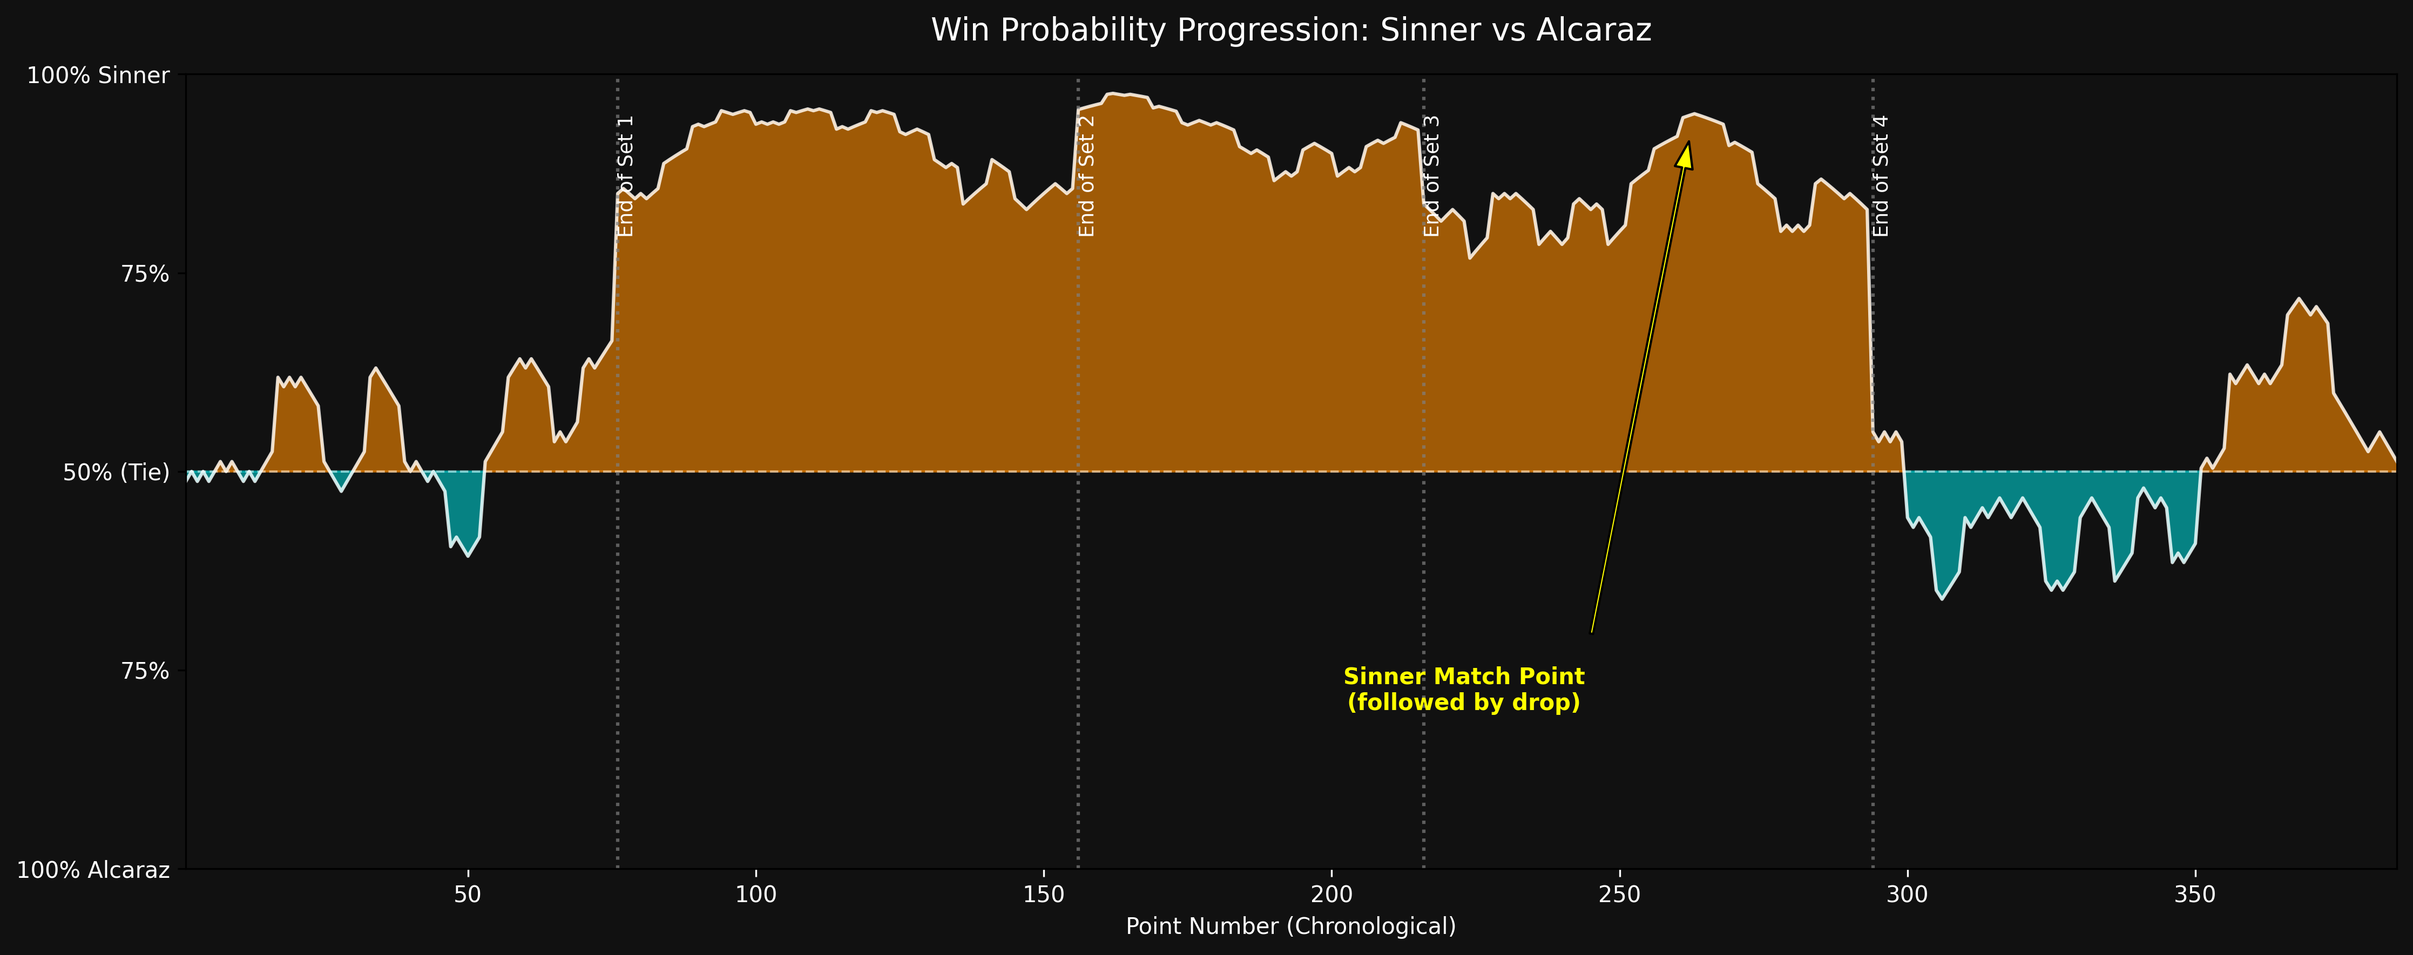
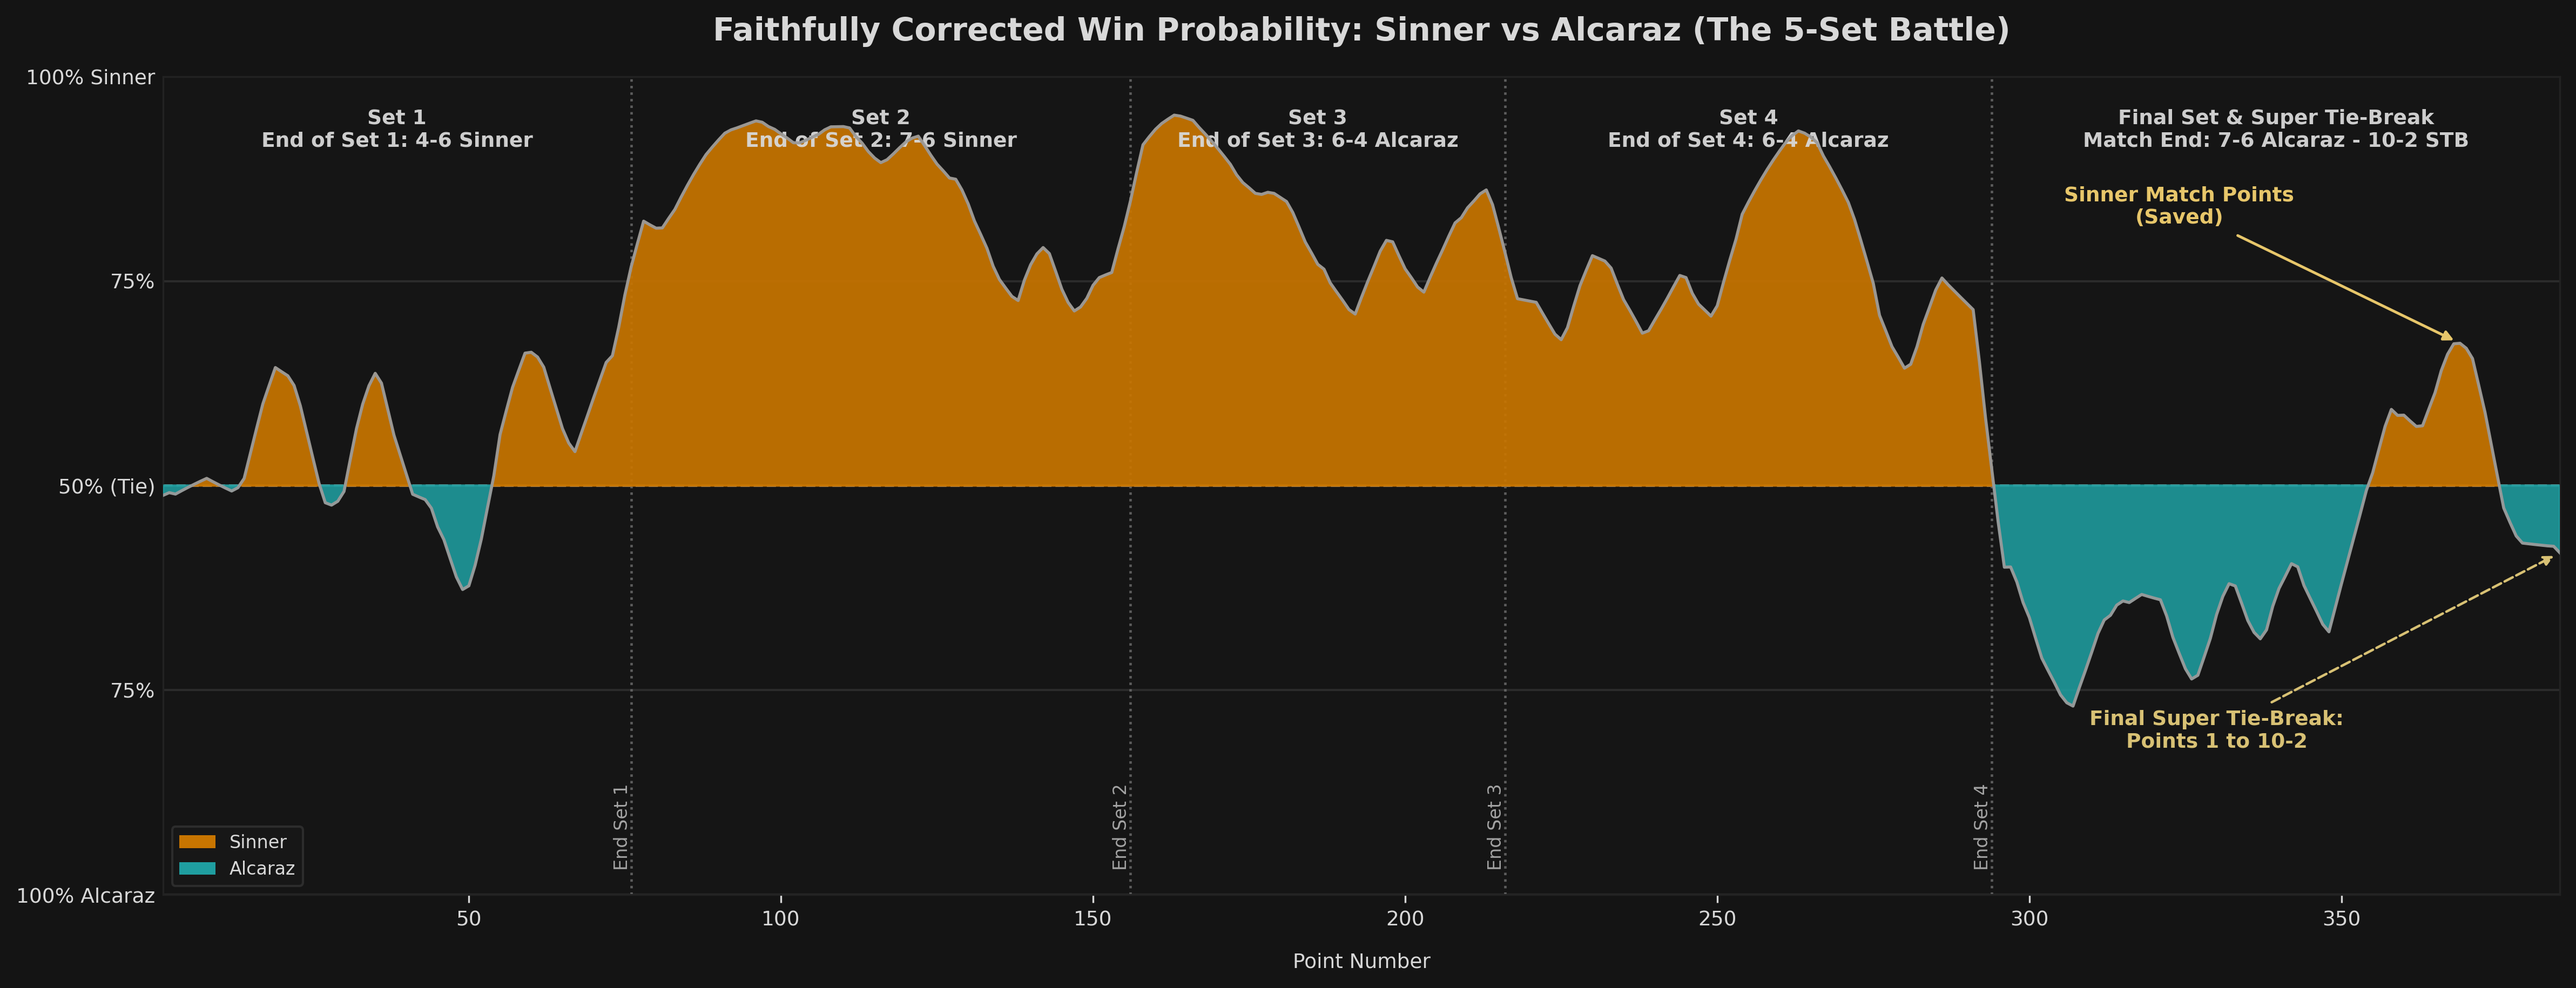
New version of the line chart

diff --git a/src/charts/mirror_line.py b/src/charts/mirror_line.py
@@ -2,89 +2,289 @@ import pandas as pd
 import numpy as np
 import matplotlib.pyplot as plt
 from pathlib import Path
+from matplotlib.patches import Patch
 
 # ==========================================
 # 1. ROBUST DATA LOADING
 # ==========================================
-# Get the absolute path of the current script (mirror_line_chart.py)
-# .parent goes to 'charts', .parent.parent goes to 'src', .parent.parent.parent goes to 'repo root'
 repo_root = Path(__file__).resolve().parent.parent.parent
 data_path = repo_root / 'data' / 'processed' / 'sinner_alcaraz_2025.parquet'
 
 print(f"Loading data from: {data_path}")
 df = pd.read_parquet(data_path)
 
-# Sort by point progression
 df = df.sort_values(by='Pt').reset_index(drop=True)
 
 # ==========================================
-# 2. CALCULATE WIN PROBABILITY (Momentum)
+# 2. CALCULATE MATCH-AWARE WIN PROBABILITY
 # ==========================================
 momentum = []
 current_momentum = 0
 
-for index, row in df.iterrows():
+for _, row in df.iterrows():
     set_diff = row['Set1'] - row['Set2']
     gm_diff = row['Gm1'] - row['Gm2']
-    
+
+    # Recent momentum matters more than very old momentum
+    current_momentum *= 0.96
+
     if row['PtWinner'] == 1:
-        current_momentum += 1.5
+        current_momentum += 1.8
     elif row['PtWinner'] == 2:
-        current_momentum -= 1.5
-        
-    total_score = (set_diff * 40) + (gm_diff * 10) + current_momentum
+        current_momentum -= 1.8
+
+    # Match-aware but not overly rigid:
+    # set_diff keeps Sinner favored after winning early sets,
+    # gm_diff and point momentum let the chart react during each set.
+    total_score = (
+        set_diff * 28
+        + gm_diff * 10
+        + current_momentum
+    )
+
     momentum.append(total_score)
 
 def sigmoid(x):
-    return 100 / (1 + np.exp(-x / 30))
+    return 100 / (1 + np.exp(-x / 24))
 
 df['Win_Prob'] = [sigmoid(m) for m in momentum]
 
+df['Win_Prob_Smooth'] = (
+    df['Win_Prob']
+    .rolling(window=5, min_periods=1, center=True)
+    .mean()
+)
+
 # Find ends of sets
-end_of_sets = df[df['Set1'] + df['Set2'] > df['Set1'].shift(1).fillna(0) + df['Set2'].shift(1).fillna(0)].index.tolist()
+df['CompletedSets'] = df['Set1'] + df['Set2']
+end_of_sets = df[
+    df['CompletedSets'] > df['CompletedSets'].shift(1).fillna(0)
+].index.tolist()
 
 # ==========================================
 # 3. PLOT MIRROR LINE CHART
 # ==========================================
-fig, ax = plt.subplots(figsize=(15, 6), facecolor='#111111')
-ax.set_facecolor('#111111')
+plt.style.use('dark_background')
 
-x = df['Pt']
-y = df['Win_Prob']
+fig, ax = plt.subplots(figsize=(16, 6.2), facecolor='#141414')
+ax.set_facecolor('#151515')
 
-ax.axhline(50, color='white', linewidth=1, linestyle='--', alpha=0.5)
-ax.plot(x, y, color='white', linewidth=1.5, alpha=0.8)
+x = df['Pt'].to_numpy()
+y = df['Win_Prob_Smooth'].to_numpy()
+baseline = 50
 
-# Fill areas
-ax.fill_between(x, y, 50, where=(y > 50), color='#FF8C00', alpha=0.6, interpolate=True) # Sinner
-ax.fill_between(x, y, 50, where=(y < 50), color='#00CED1', alpha=0.6, interpolate=True) # Alcaraz
+sinner_color = '#C87500'
+alcaraz_color = '#1F9EA0'
+line_color = '#9A9A9A'
+grid_color = '#333333'
+text_color = '#D8D8D8'
 
-# Set separators
+# Horizontal grid/reference lines
+for level in [0, 25, 50, 75, 100]:
+    ax.axhline(level, color=grid_color, linewidth=1, alpha=0.75, zorder=0)
+
+ax.axhline(
+    baseline,
+    color='#CFCFCF',
+    linewidth=1.1,
+    linestyle='--',
+    alpha=0.7,
+    zorder=2
+)
+
+# Filled mirror areas
+ax.fill_between(
+    x,
+    y,
+    baseline,
+    where=y >= baseline,
+    color=sinner_color,
+    alpha=0.92,
+    interpolate=True,
+    zorder=3
+)
+
+ax.fill_between(
+    x,
+    y,
+    baseline,
+    where=y < baseline,
+    color=alcaraz_color,
+    alpha=0.88,
+    interpolate=True,
+    zorder=3
+)
+
+# Probability / momentum line
+ax.plot(
+    x,
+    y,
+    color=line_color,
+    linewidth=1.35,
+    alpha=0.95,
+    zorder=4
+)
+
+# ==========================================
+# 4. SET SEPARATORS + SET LABELS
+# ==========================================
+set_labels = [
+    "Set 1\nEnd of Set 1: 4-6 Sinner",
+    "Set 2\nEnd of Set 2: 7-6 Sinner",
+    "Set 3\nEnd of Set 3: 6-4 Alcaraz",
+    "Set 4\nEnd of Set 4: 6-4 Alcaraz",
+    "Final Set & Super Tie-Break\nMatch End: 7-6 Alcaraz - 10-2 STB"
+]
+
+bounds = [df['Pt'].min()]
+
 for i, pt_idx in enumerate(end_of_sets):
-    ax.axvline(df.loc[pt_idx, 'Pt'], color='gray', linestyle=':', alpha=0.7)
-    ax.text(df.loc[pt_idx, 'Pt'], 95, f'End of Set {i+1}', color='white', rotation=90, verticalalignment='top', fontsize=9)
+    set_end_pt = df.loc[pt_idx, 'Pt']
+    bounds.append(set_end_pt)
 
-# Match Point Annotation (4th Set Peak)
-if len(end_of_sets) >= 3:
-    start_4th = end_of_sets[2]
-    end_4th = end_of_sets[3] if len(end_of_sets) > 3 else len(df)-1
-    match_point_idx = df.loc[start_4th:end_4th, 'Win_Prob'].idxmax()
-    mp_x = df.loc[match_point_idx, 'Pt']
-    mp_y = df.loc[match_point_idx, 'Win_Prob']
-    
-    ax.annotate('Sinner Match Point\n(followed by drop)', 
-                xy=(mp_x, mp_y), xytext=(mp_x - 40, 20),
-                arrowprops=dict(facecolor='yellow', shrink=0.05, width=1.5, headwidth=8),
-                color='yellow', fontsize=10, fontweight='bold', ha='center')
+    ax.axvline(
+        set_end_pt,
+        color='#6A6A6A',
+        linestyle=':',
+        linewidth=1.1,
+        alpha=0.85,
+        zorder=2
+    )
 
-# Formatting
+    ax.text(
+        set_end_pt,
+        3,
+        f"End Set {i + 1}",
+        color='#BDBDBD',
+        fontsize=8,
+        rotation=90,
+        ha='right',
+        va='bottom',
+        alpha=0.85
+    )
+
+bounds.append(df['Pt'].max())
+
+for i in range(min(len(set_labels), len(bounds) - 1)):
+    mid = (bounds[i] + bounds[i + 1]) / 2
+
+    ax.text(
+        mid,
+        96,
+        set_labels[i],
+        color=text_color,
+        fontsize=9,
+        fontweight='bold',
+        ha='center',
+        va='top',
+        alpha=0.95
+    )
+
+# ==========================================
+# 5. ANNOTATIONS
+# ==========================================
+if len(end_of_sets) >= 4:
+    final_start = end_of_sets[3]
+else:
+    final_start = int(len(df) * 0.78)
+
+final_df = df.loc[final_start:].copy()
+
+if not final_df.empty:
+    mp_idx = final_df['Win_Prob_Smooth'].idxmax()
+    mp_x = df.loc[mp_idx, 'Pt']
+    mp_y = df.loc[mp_idx, 'Win_Prob_Smooth']
+
+    ax.annotate(
+        "Sinner Match Points\n(Saved)",
+        xy=(mp_x, mp_y),
+        xytext=(mp_x - 45, 82),
+        color='#E7C66A',
+        fontsize=9,
+        fontweight='bold',
+        ha='center',
+        arrowprops=dict(
+            arrowstyle='-|>',
+            color='#E7C66A',
+            lw=1.2,
+            shrinkA=3,
+            shrinkB=3
+        ),
+        zorder=5
+    )
+
+    ax.annotate(
+        "Final Super Tie-Break:\nPoints 1 to 10-2",
+        xy=(df['Pt'].max(), y[-1]),
+        xytext=(df['Pt'].max() - 55, 18),
+        color='#D8C174',
+        fontsize=9,
+        fontweight='bold',
+        ha='center',
+        arrowprops=dict(
+            arrowstyle='-|>',
+            color='#D8C174',
+            lw=1.1,
+            linestyle='--',
+            shrinkA=3,
+            shrinkB=3
+        ),
+        zorder=5
+    )
+
+# ==========================================
+# 6. FORMATTING
+# ==========================================
 ax.set_ylim(0, 100)
 ax.set_xlim(df['Pt'].min(), df['Pt'].max())
+
 ax.set_yticks([0, 25, 50, 75, 100])
-ax.set_yticklabels(['100% Alcaraz', '75%', '50% (Tie)', '75%', '100% Sinner'], color='white')
-ax.tick_params(axis='x', colors='white')
-ax.set_title("Win Probability Progression: Sinner vs Alcaraz", color='white', fontsize=14, pad=15)
-ax.set_xlabel("Point Number (Chronological)", color='white')
+ax.set_yticklabels(
+    ['100% Alcaraz', '75%', '50% (Tie)', '75%', '100% Sinner'],
+    color=text_color,
+    fontsize=9
+)
+
+ax.tick_params(axis='x', colors=text_color, labelsize=9)
+ax.tick_params(axis='y', colors=text_color, length=0)
+
+for spine in ax.spines.values():
+    spine.set_color('#222222')
+
+ax.set_title(
+    "Faithfully Corrected Win Probability: Sinner vs Alcaraz (The 5-Set Battle)",
+    color=text_color,
+    fontsize=14,
+    fontweight='bold',
+    pad=16
+)
+
+ax.set_xlabel("Point Number", color=text_color, fontsize=9, labelpad=10)
+
+legend_elements = [
+    Patch(facecolor=sinner_color, edgecolor='none', label='Sinner'),
+    Patch(facecolor=alcaraz_color, edgecolor='none', label='Alcaraz')
+]
+
+legend = ax.legend(
+    handles=legend_elements,
+    loc='lower left',
+    frameon=True,
+    facecolor='#181818',
+    edgecolor='#333333',
+    fontsize=8
+)
+
+for text in legend.get_texts():
+    text.set_color(text_color)
 
 plt.tight_layout()
-plt.savefig(Path(__file__).resolve().parent / 'pngs' / "mirror_line_chart.png", dpi=300, bbox_inches='tight')
+
+output_dir = Path(__file__).resolve().parent / 'pngs'
+output_dir.mkdir(parents=True, exist_ok=True)
+
+output_path = output_dir / "mirror_line_chart.png"
+plt.savefig(output_path, dpi=300, bbox_inches='tight', facecolor=fig.get_facecolor())
+plt.close()
+
+print(f"Saved chart to: {output_path}")
